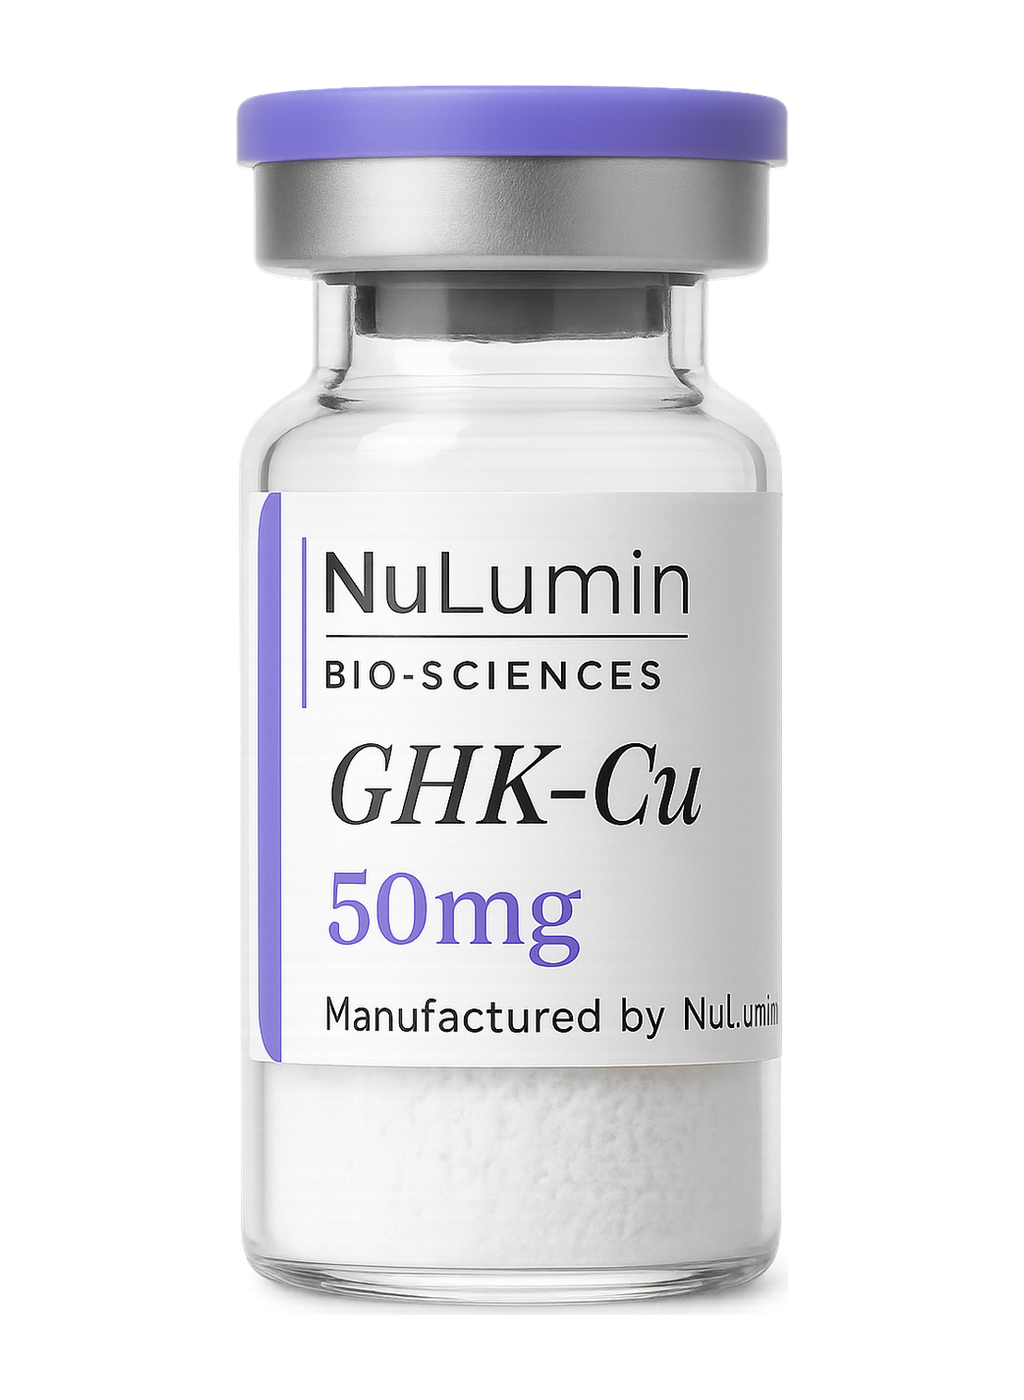
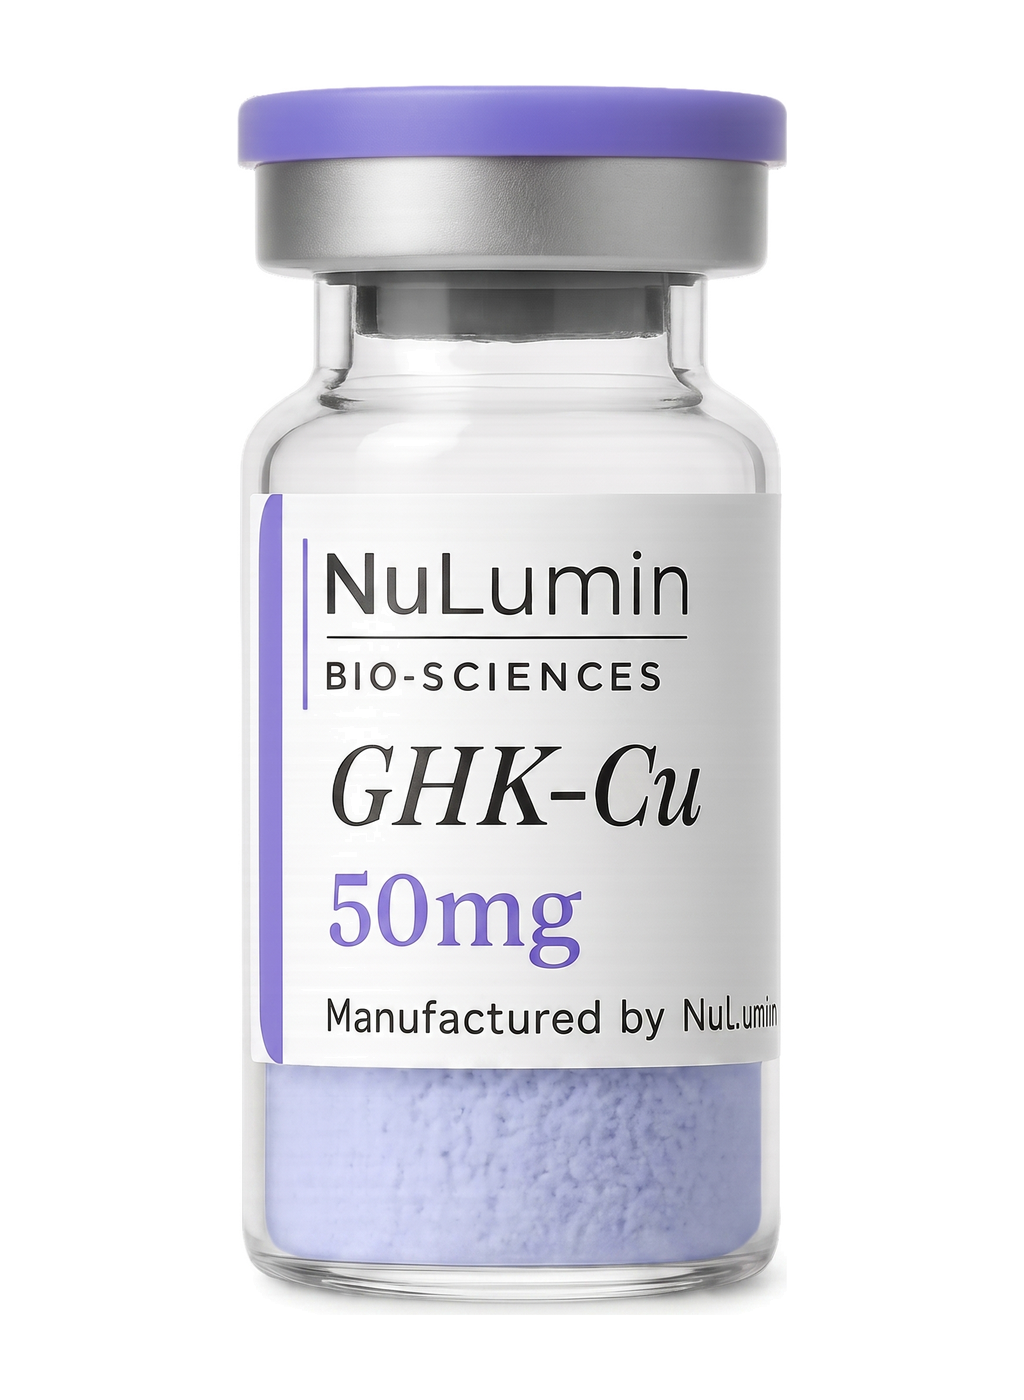
NuLumin packshots: NAD+ is amber glass, GHK-Cu's cake is blue-violet
Two of the reference packshots were wrong about the product itself. NAD+ ships in amber
light-protective glass and was rendered in clear glass; GHK-Cu is a copper peptide whose
lyophilised cake is blue-violet and was rendered white. Both are reference images, so the
error propagates into anything generated from them — which is the whole reason this set
exists.

Fixed as single-change edits of the existing packshots rather than regenerations, so
framing, cap, crimp, label and lighting stay put and both files still sit in a catalogue
row with the other 29. Picked the candidates that moved least: GHK-Cu's cake top lands at
0.720 of frame against the original's 0.721, and its cap hue and label white are the
closer of the two. NAD+'s amber reads at hue 34 — the brown-amber of real pharmaceutical
glass — rather than the yellow-orange the alternative produced. The label, cap and crimp
are untinted in both.

The pack knew about the violet cake and still produced a white one, because knowing is
not the same as pinning it in the prompt. Adding glassColors and a per-compound glass
field so amber is stated the same way cap and cake colours already are, and correcting
the defect note, which claimed a white GHK-Cu cake this set no longer has.

diff --git a/knowledge/brands/nulumin/ASSETS.md b/knowledge/brands/nulumin/ASSETS.md
@@ -89,9 +89,13 @@ feed), so a count that includes it will not match anything customer-facing.
 
 ## ⚠ Known defects — check before relying on an asset
 
-1. **Some GHK-Cu assets render the cake WHITE.** GHK-Cu is a copper peptide; its lyophilised cake is
-   **blue-violet**. Anything generated from a white-cake GHK-Cu reference inherits the error. This
-   includes `White BG Powder/NuL_GHK_50mg_white.png` — do not use it as a cake-colour reference.
+1. **Product-accuracy traps: GHK-Cu's cake and NAD+'s glass.** GHK-Cu is a copper peptide, so its
+   lyophilised cake is **blue-violet**, and NAD+ ships in **amber** light-protective glass. Renders
+   default to a white cake and clear glass, so both must be pinned explicitly every time —
+   `catalog.json` carries the wording as `cakeColors.copperViolet` and `glassColors.amber`.
+   **`White BG Powder` was corrected on 2026-07-29** and both files are now right. Assets in other
+   folders were not touched and many still show a white GHK-Cu cake and a clear NAD+ vial — check
+   before using one as a reference, because the error is inherited.
 2. **The pink/endocrine packshots render the tagline "BIO SCIENCES" without its hyphen.** It must read
    **BIO-SCIENCES**. Affects all 8 endocrine files (CFC, CJCIpa, Ipamorelin, KissPeptin, Melanotan,
    Oxytocin, PT, Sermorelin); the violet, blue, green and gold families are correct. Prompting a
